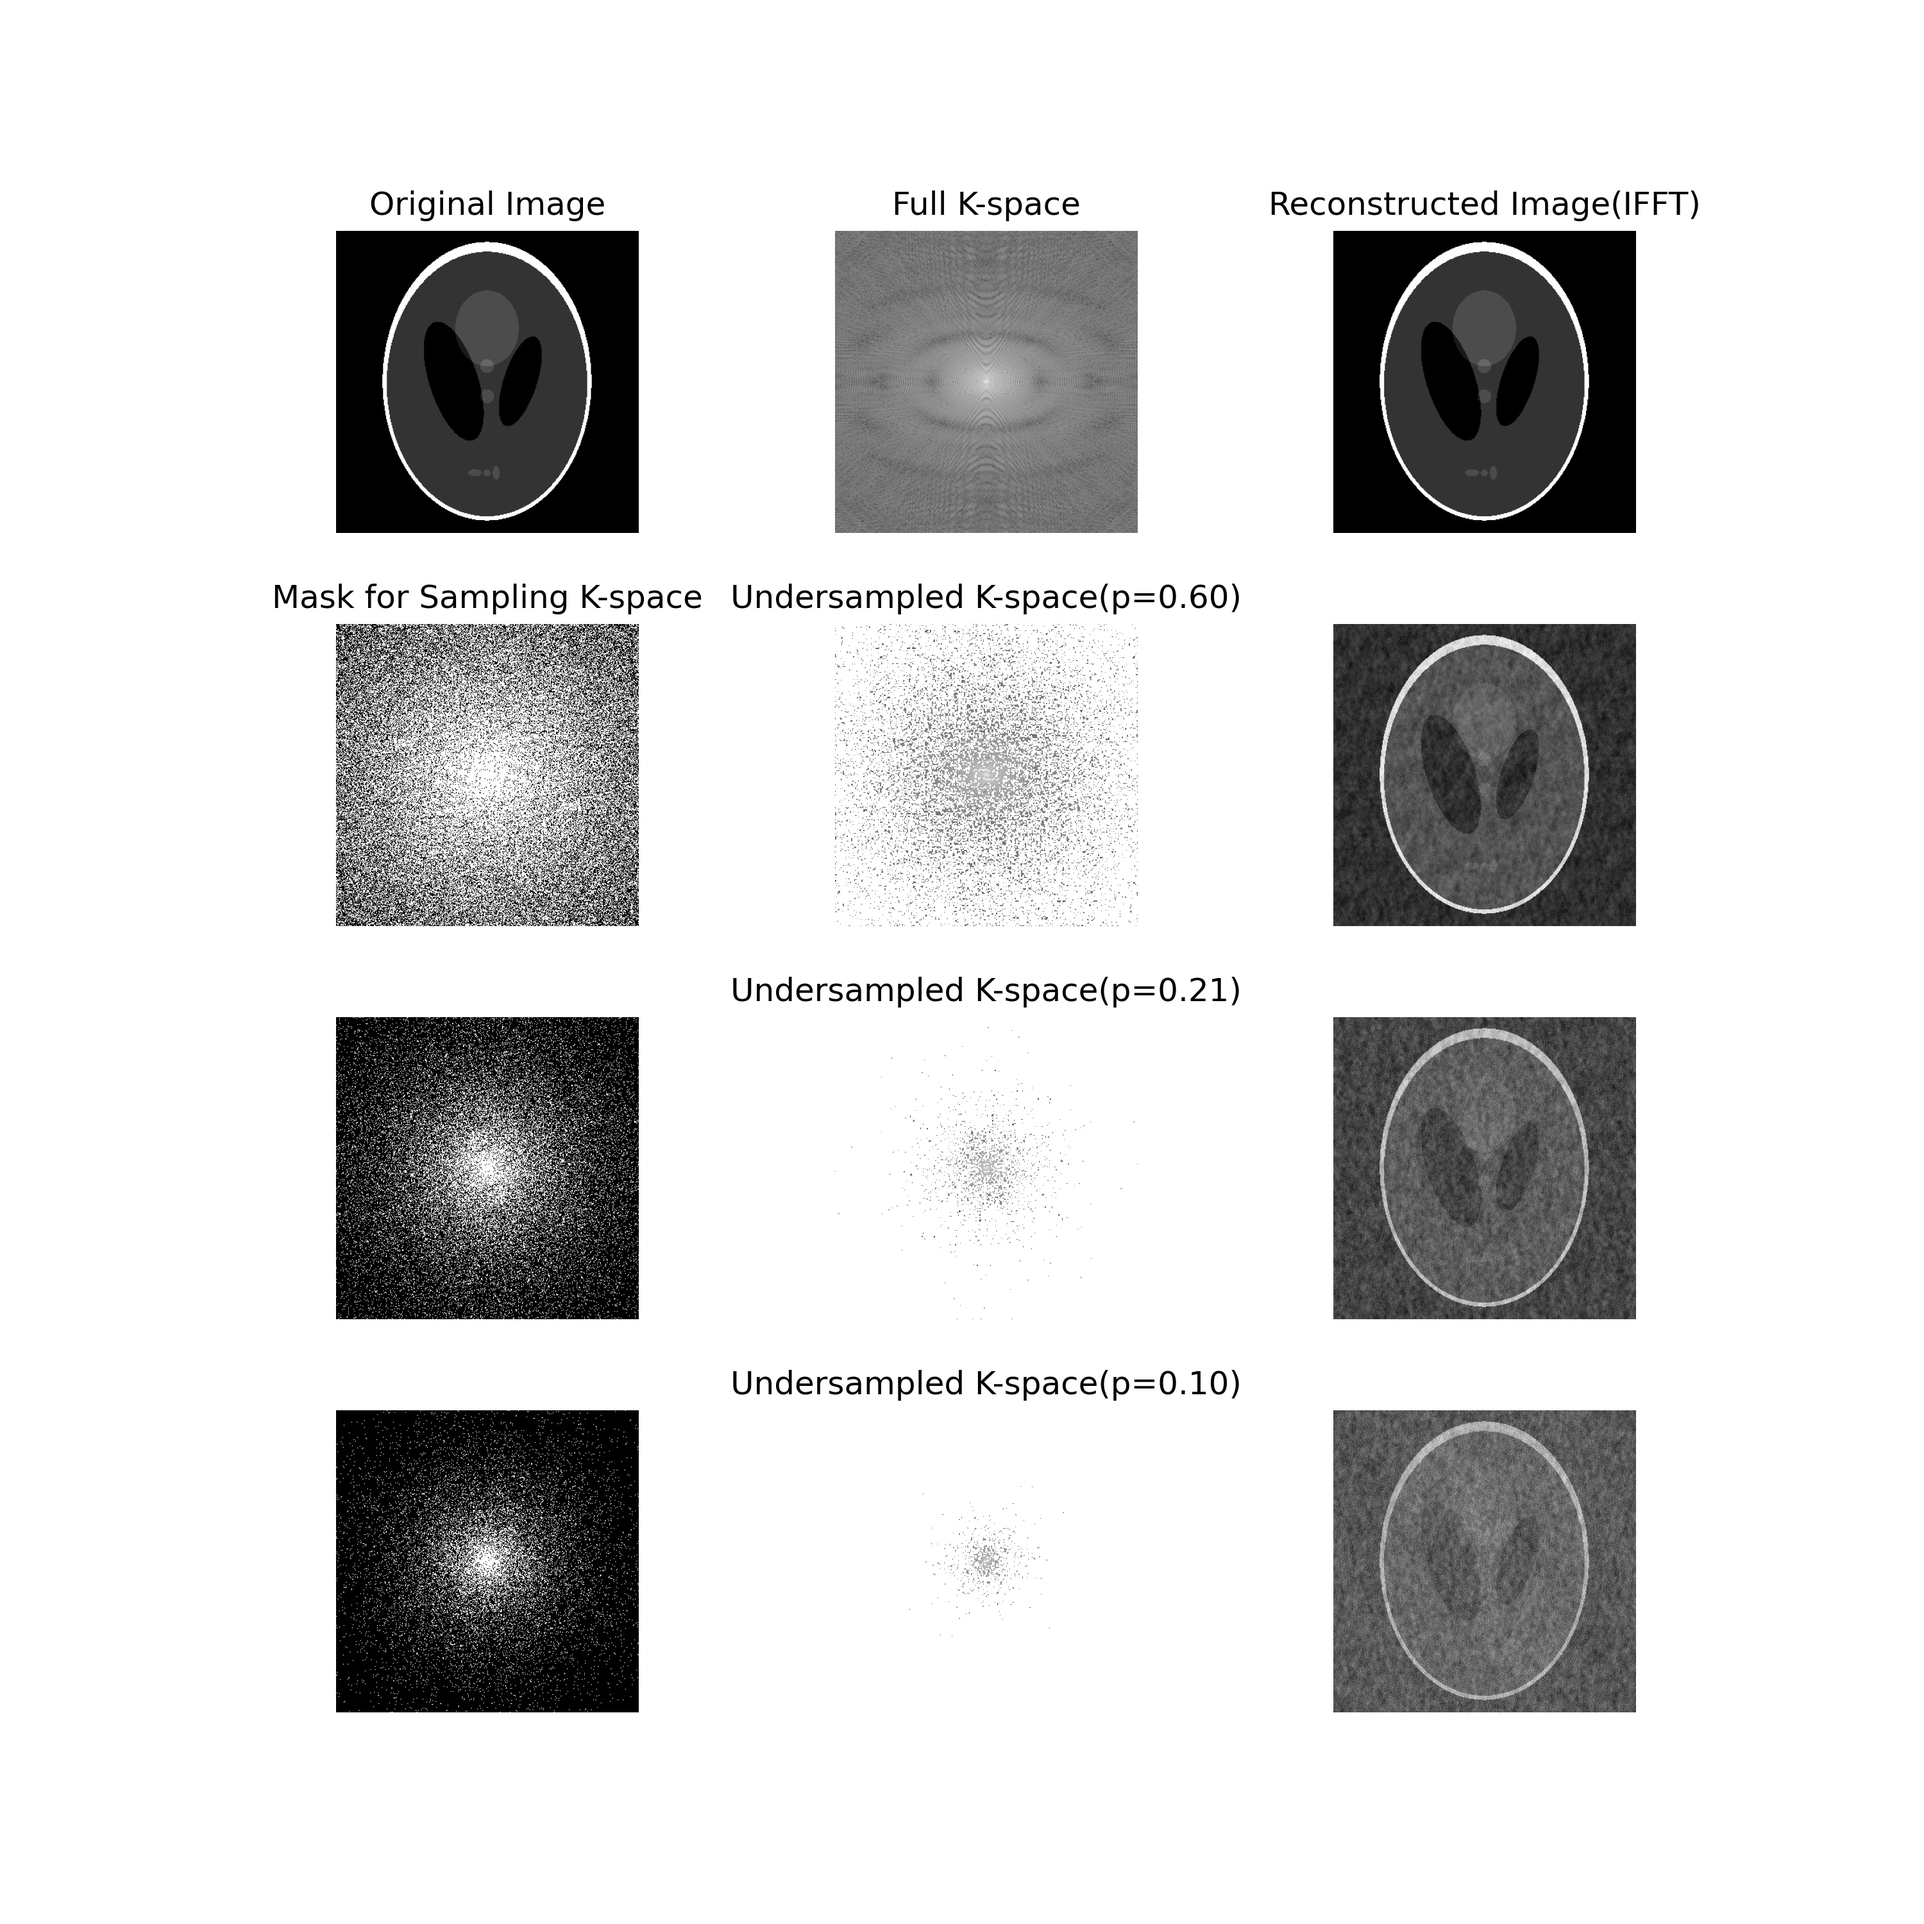
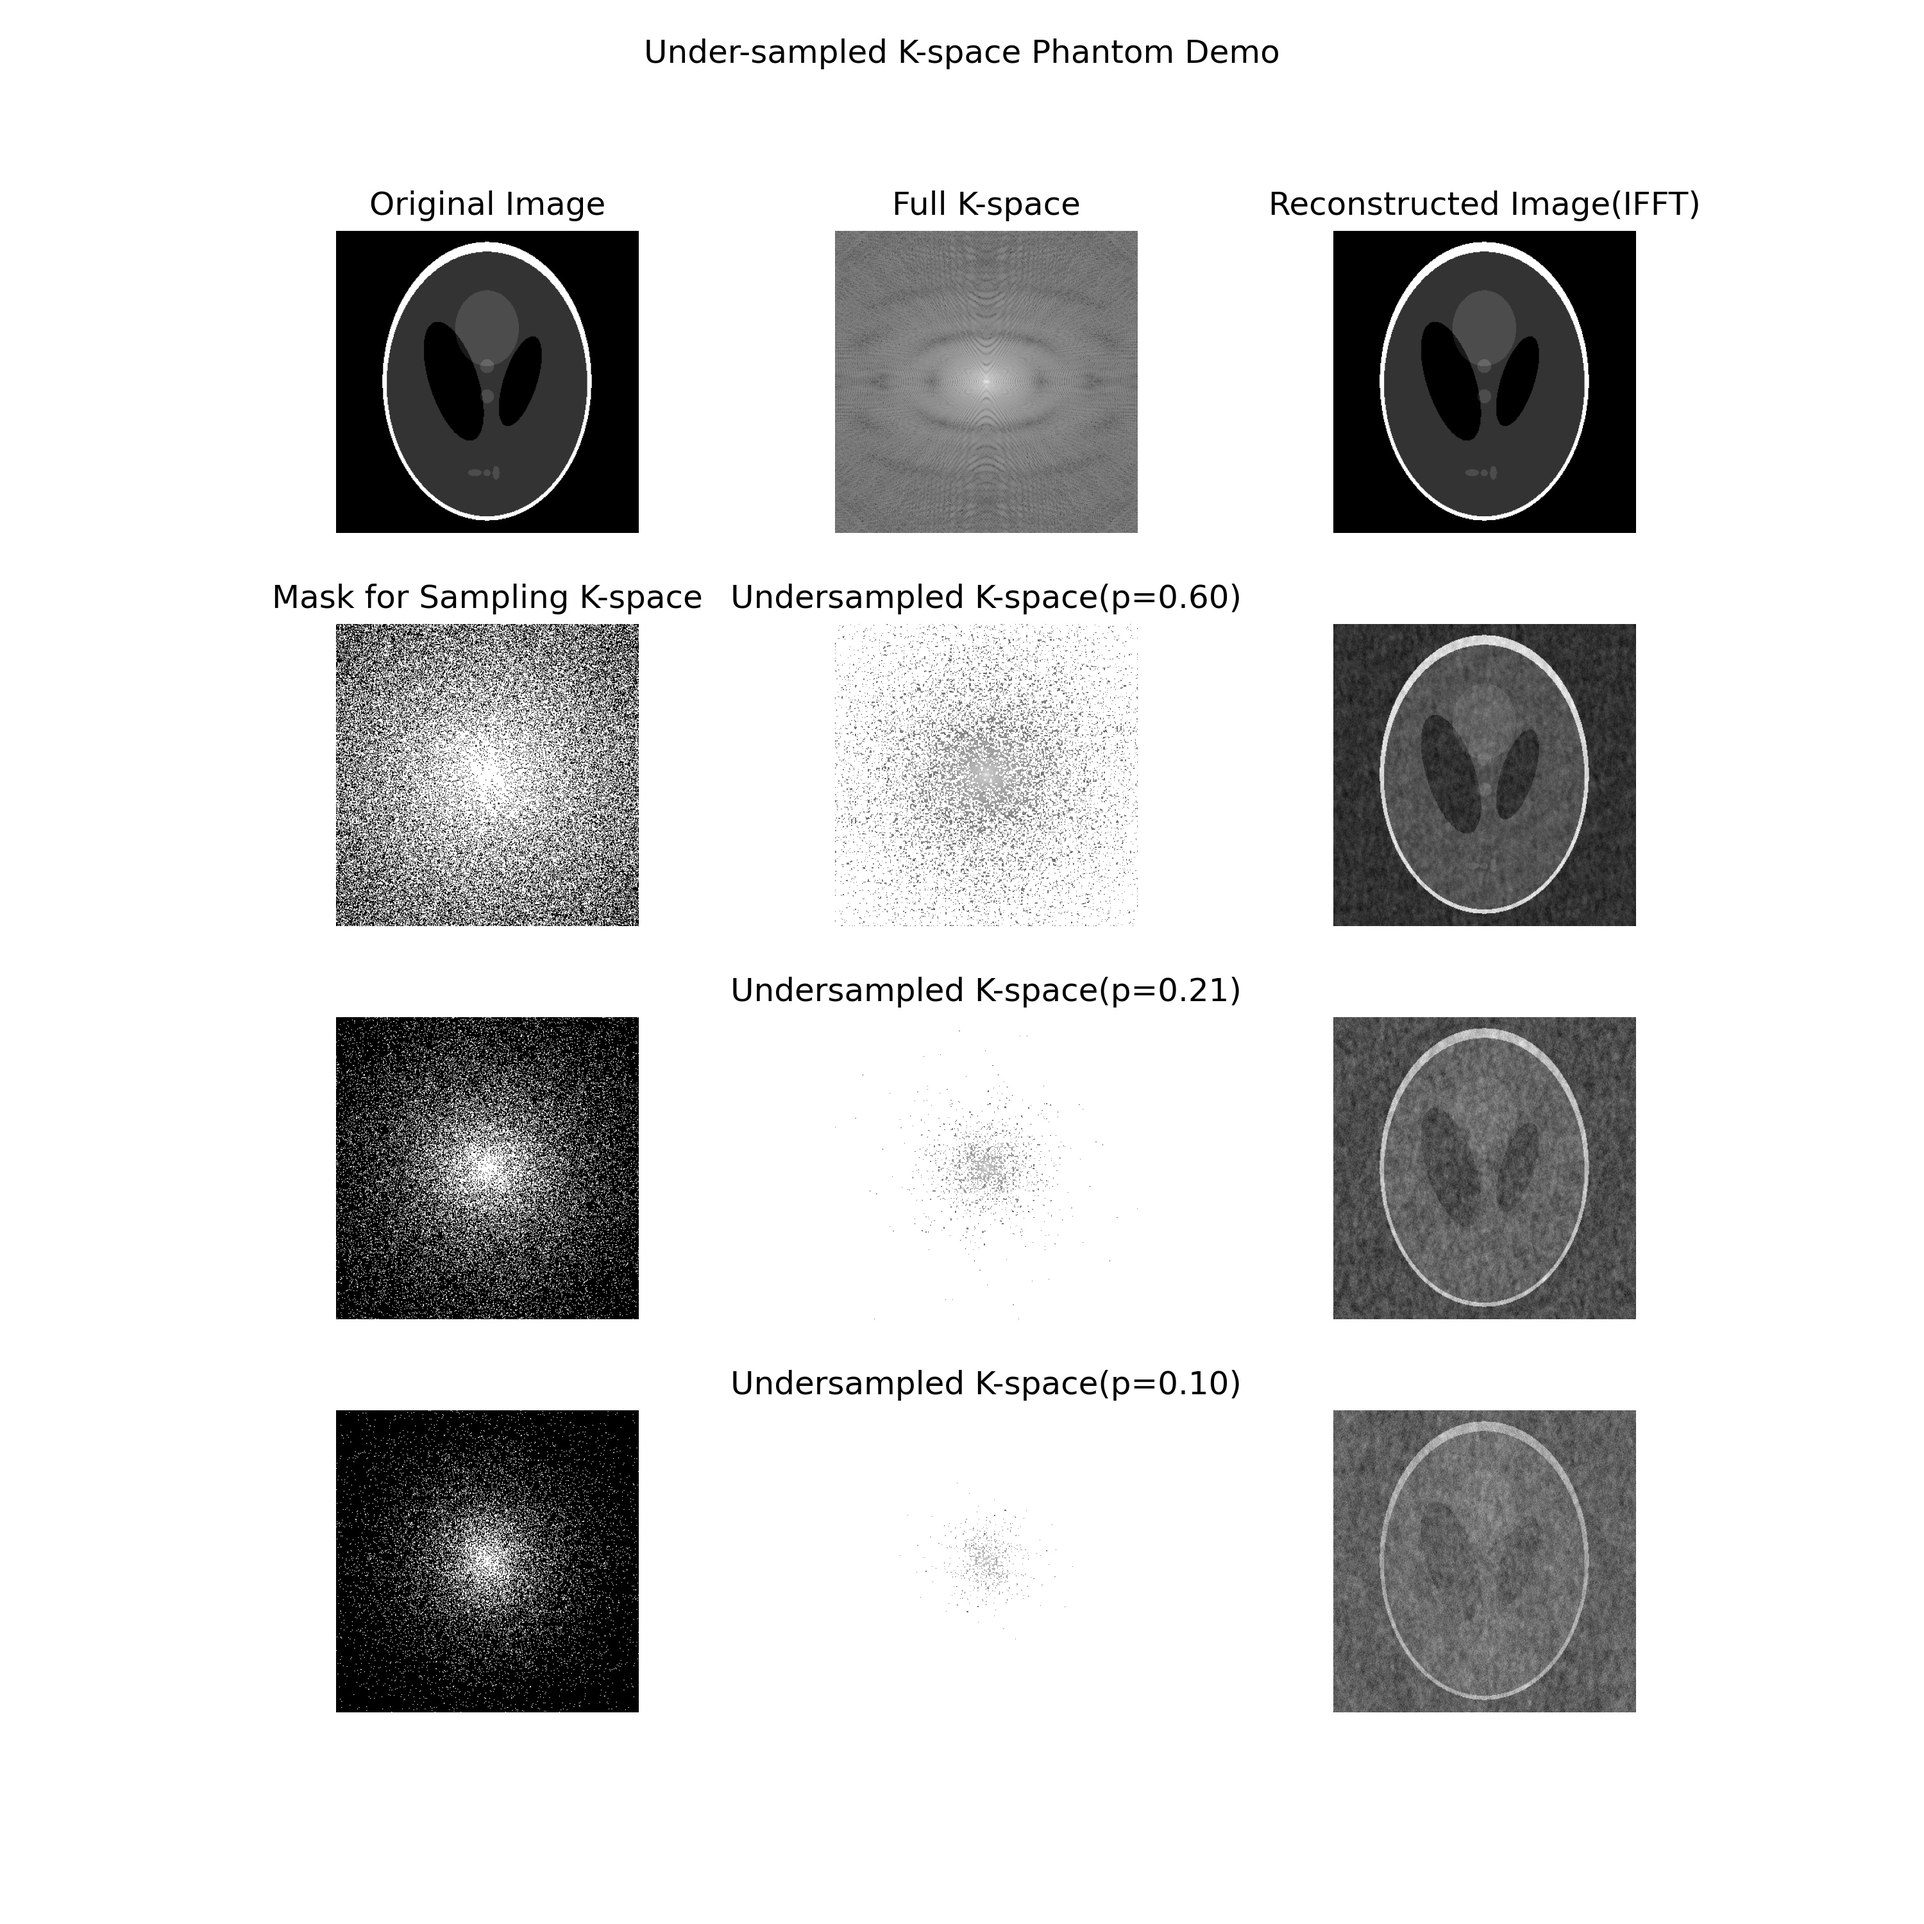
undersample+noise2noise

diff --git a/sampleKspace.py b/sampleKspace.py
@@ -50,6 +50,7 @@ axes = axes.flatten()
 for ax in axes:
     ax.axis(False)
 
+plt.suptitle("Under-sampled K-space Phantom Demo")
 # plt.tight_layout()
 plt.subplots_adjust(hspace=0.3, wspace=0.01)
 # plt.show()

diff --git a/README.md b/README.md
@@ -51,3 +51,6 @@
 - [Deflated preconditioned Conjugate Gradient methods for noise filtering of low-field MR images](https://www.sciencedirect.com/science/article/pii/S0377042721003526)
 - [A Dictionary Learning Approach for Joint Reconstruction and Denoising in Low Field Magnetic Resonance Imaging](https://ieeexplore.ieee.org/abstract/document/9576932?casa_token=c8lsd383K34AAAAA:bs1SuWhNDUFeadcF9_hkRfkeWZ7GHRPXHWHi5c9A40JMShPWEPC7hfKg__1t6qtDFaC18cpjDQUI)
 - [Low-Field MRI: How Low Can We Go? A Fresh View on an Old Debate](https://www.frontiersin.org/articles/10.3389/fphy.2020.00172/full)
+
+## Demo Under-sampled K-space with a Bernoulli process
+![Drag Racing](under_sampled.jpg)
